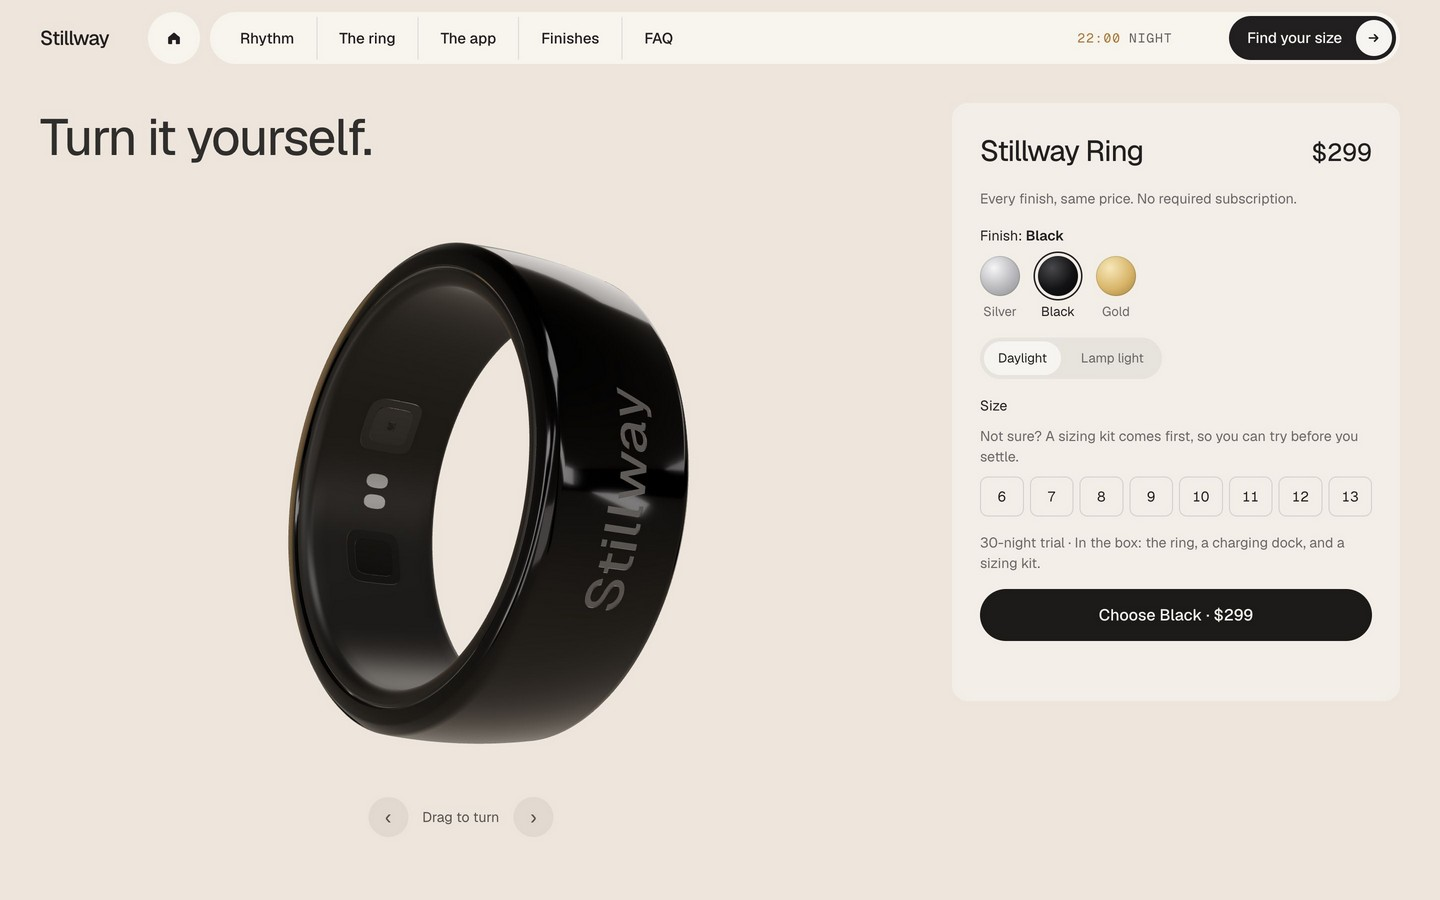
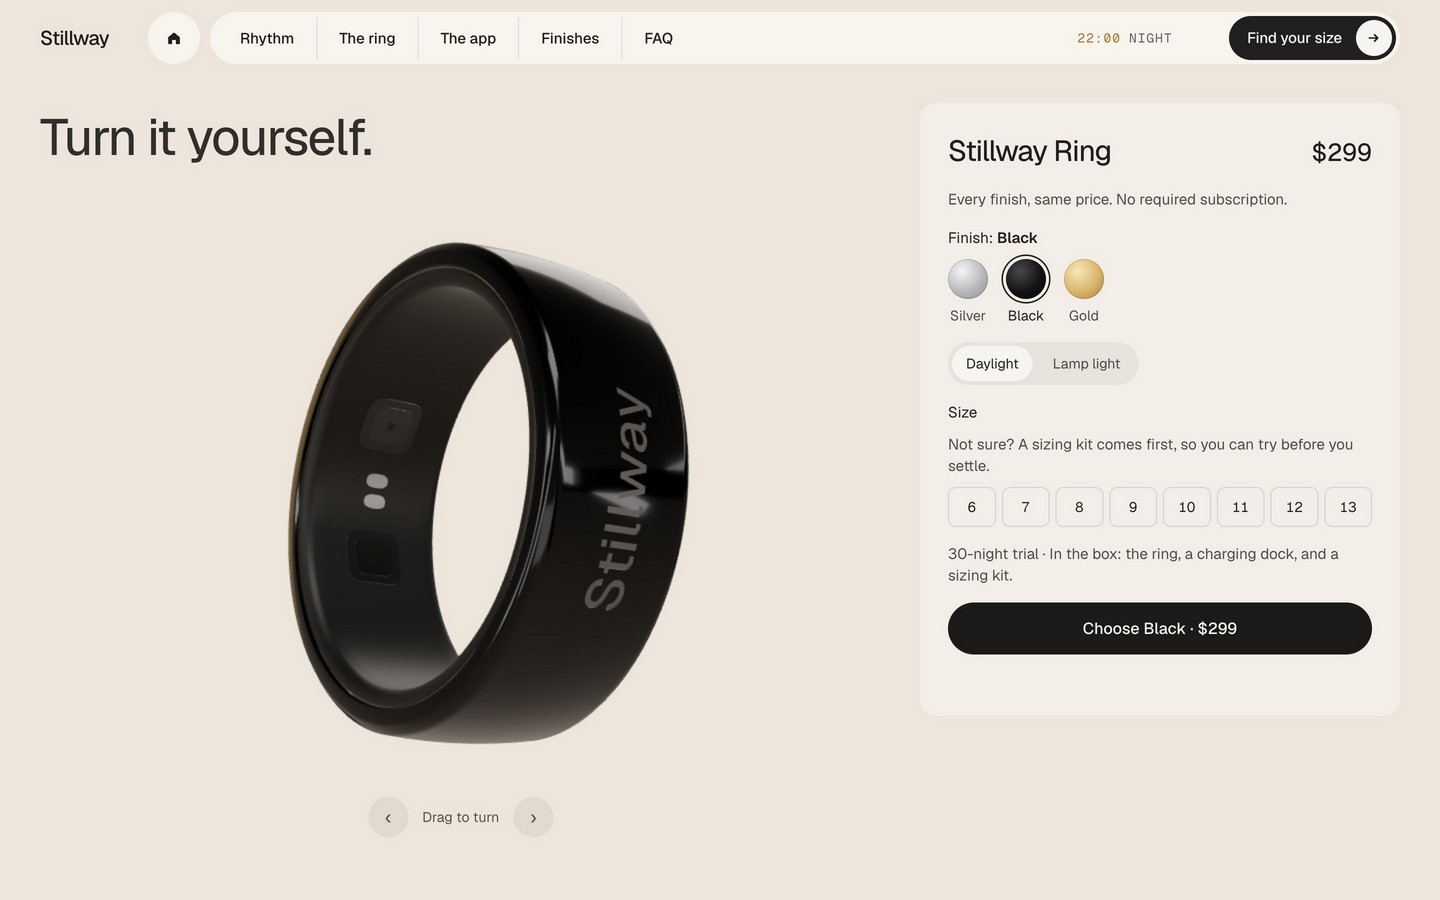
fix(web-v2): D-098 round 1 — bright 18K Gold everywhere, readable S10 panel text, FAQ links land on the FAQ
- Gold: warmer, more saturated band colour and more env so AgX keeps it a
  bright 18K yellow (close to the 3D Designer's Blender gold_polished render);
  the Lamp env is lifted so finishes keep their brightness under it; S11
  lights the ring with the neutral studio env plus a warm rim instead of the
  Night env (Gold was nearly black)
- S10 panel small text 15px (labels 15, swatches/toggle 14), darker Stone
- Navbar and footer 'FAQ' go to S11 state 3 (#faq anchor in the close track)

diff --git a/web-v2/src/scripts/ring/stage.ts b/web-v2/src/scripts/ring/stage.ts
@@ -211,7 +211,9 @@ export async function createRingStage(canvas: HTMLCanvasElement): Promise<RingSt
   const FIN = [
     { band: { color: lin(0.92, 0.92, 0.93), roughness: 0.06, cc: 0, ccr: 0, env: 1.5 }, engrave: { color: lin(0.28, 0.28, 0.29), roughness: 0.38, cc: 0, ccr: 0, env: 1.0 } },
     { band: { color: lin(0.035, 0.035, 0.04), roughness: 0.07, cc: 0.3, ccr: 0.03, env: 1.5 }, engrave: { color: lin(0.24, 0.24, 0.25), roughness: 0.5, cc: 0, ccr: 0, env: 1.0 } },
-    { band: { color: lin(1.0, 0.8, 0.34), roughness: 0.06, cc: 0, ccr: 0, env: 1.5 }, engrave: { color: lin(0.4, 0.28, 0.1), roughness: 0.38, cc: 0, ccr: 0, env: 1.0 } },
+    // Gold: finishes.json gold_polished, warmed a little and given more env so AgX keeps it a bright 18K
+    // yellow instead of olive (D-098 r1; the user rejected brownish Gold in D-078/D-079)
+    { band: { color: lin(1.0, 0.66, 0.15), roughness: 0.06, cc: 0, ccr: 0, env: 2.3 }, engrave: { color: lin(0.4, 0.28, 0.1), roughness: 0.38, cc: 0, ccr: 0, env: 1.0 } },
   ];
   const finSpec = (part: 'band' | 'engrave', a: number, b: number, t: number) => {
     const A = FIN[Math.round(a)]?.[part] ?? FIN[0][part];
@@ -388,7 +390,8 @@ export async function createRingStage(canvas: HTMLCanvasElement): Promise<RingSt
     const dip = Math.min(1, Math.abs(n - 0.5) * 2.5, Math.abs(dk - 0.5) * 2.5, Math.abs(lp - 0.5) * 2.5);
     // on Night the polished env is almost black: lift it with the rim so the band keeps a silver gradient
     // the swap dip never goes below 0.45, so the ring is never a black shape in a connection (D-090 r1)
-    scene.environmentIntensity = (0.45 + 0.55 * dip) * (1 + 1.4 * p.rim);
+    // the Lamp env is darker than the studio: lift it so finishes keep their brightness under it
+    scene.environmentIntensity = (0.45 + 0.55 * dip) * (1 + 1.4 * p.rim) * (1 + 0.7 * lp);
 
     const ledKey = p.led.toFixed(3) + '|' + p.ledc.toFixed(3);
     if (ledKey !== lastLedKey) {

diff --git a/web-v2/src/content/copy.ts b/web-v2/src/content/copy.ts
@@ -10,7 +10,7 @@ export const nav = {
     { label: 'The ring', href: '#details' },
     { label: 'The app', href: '#app' },
     { label: 'Finishes', href: '#finishes' },
-    { label: 'FAQ', href: '#close' },
+    { label: 'FAQ', href: '#faq' },
   ],
   cta: { label: 'Find your size', href: '#finishes', status: 'approved D-069' },
   menu: { open: 'Menu', close: 'Close' },
@@ -210,7 +210,7 @@ export const close = {
     { label: 'The ring', href: '#details' },
     { label: 'The app', href: '#app' },
     { label: 'Finishes', href: '#finishes' },
-    { label: 'FAQ', href: '#close' },
+    { label: 'FAQ', href: '#faq' },
   ],
   top: 'Back to top',
   wordmark: 'Stillway',

diff --git a/web-v2/src/scripts/sections/close.ts b/web-v2/src/scripts/sections/close.ts
@@ -124,9 +124,11 @@ export const close: SectionMotion = {
       y: (m ? 0.02 : 0) + up,
       w,
       ...ANGLE.facing,
-      light: 1,
-      rim: 0.55,
-      warm: 0.5,
+      // D-098 r1: the neutral studio env (as S05) so every finish reads in its own colour on the dark;
+      // the Night env left Gold almost black. A warm rim from the glow side.
+      light: 0,
+      rim: 0,
+      warm: 0.7,
       ...finishPose(1),
       alpha: 1 - seg(up, 0.55, 0.9),
     });
